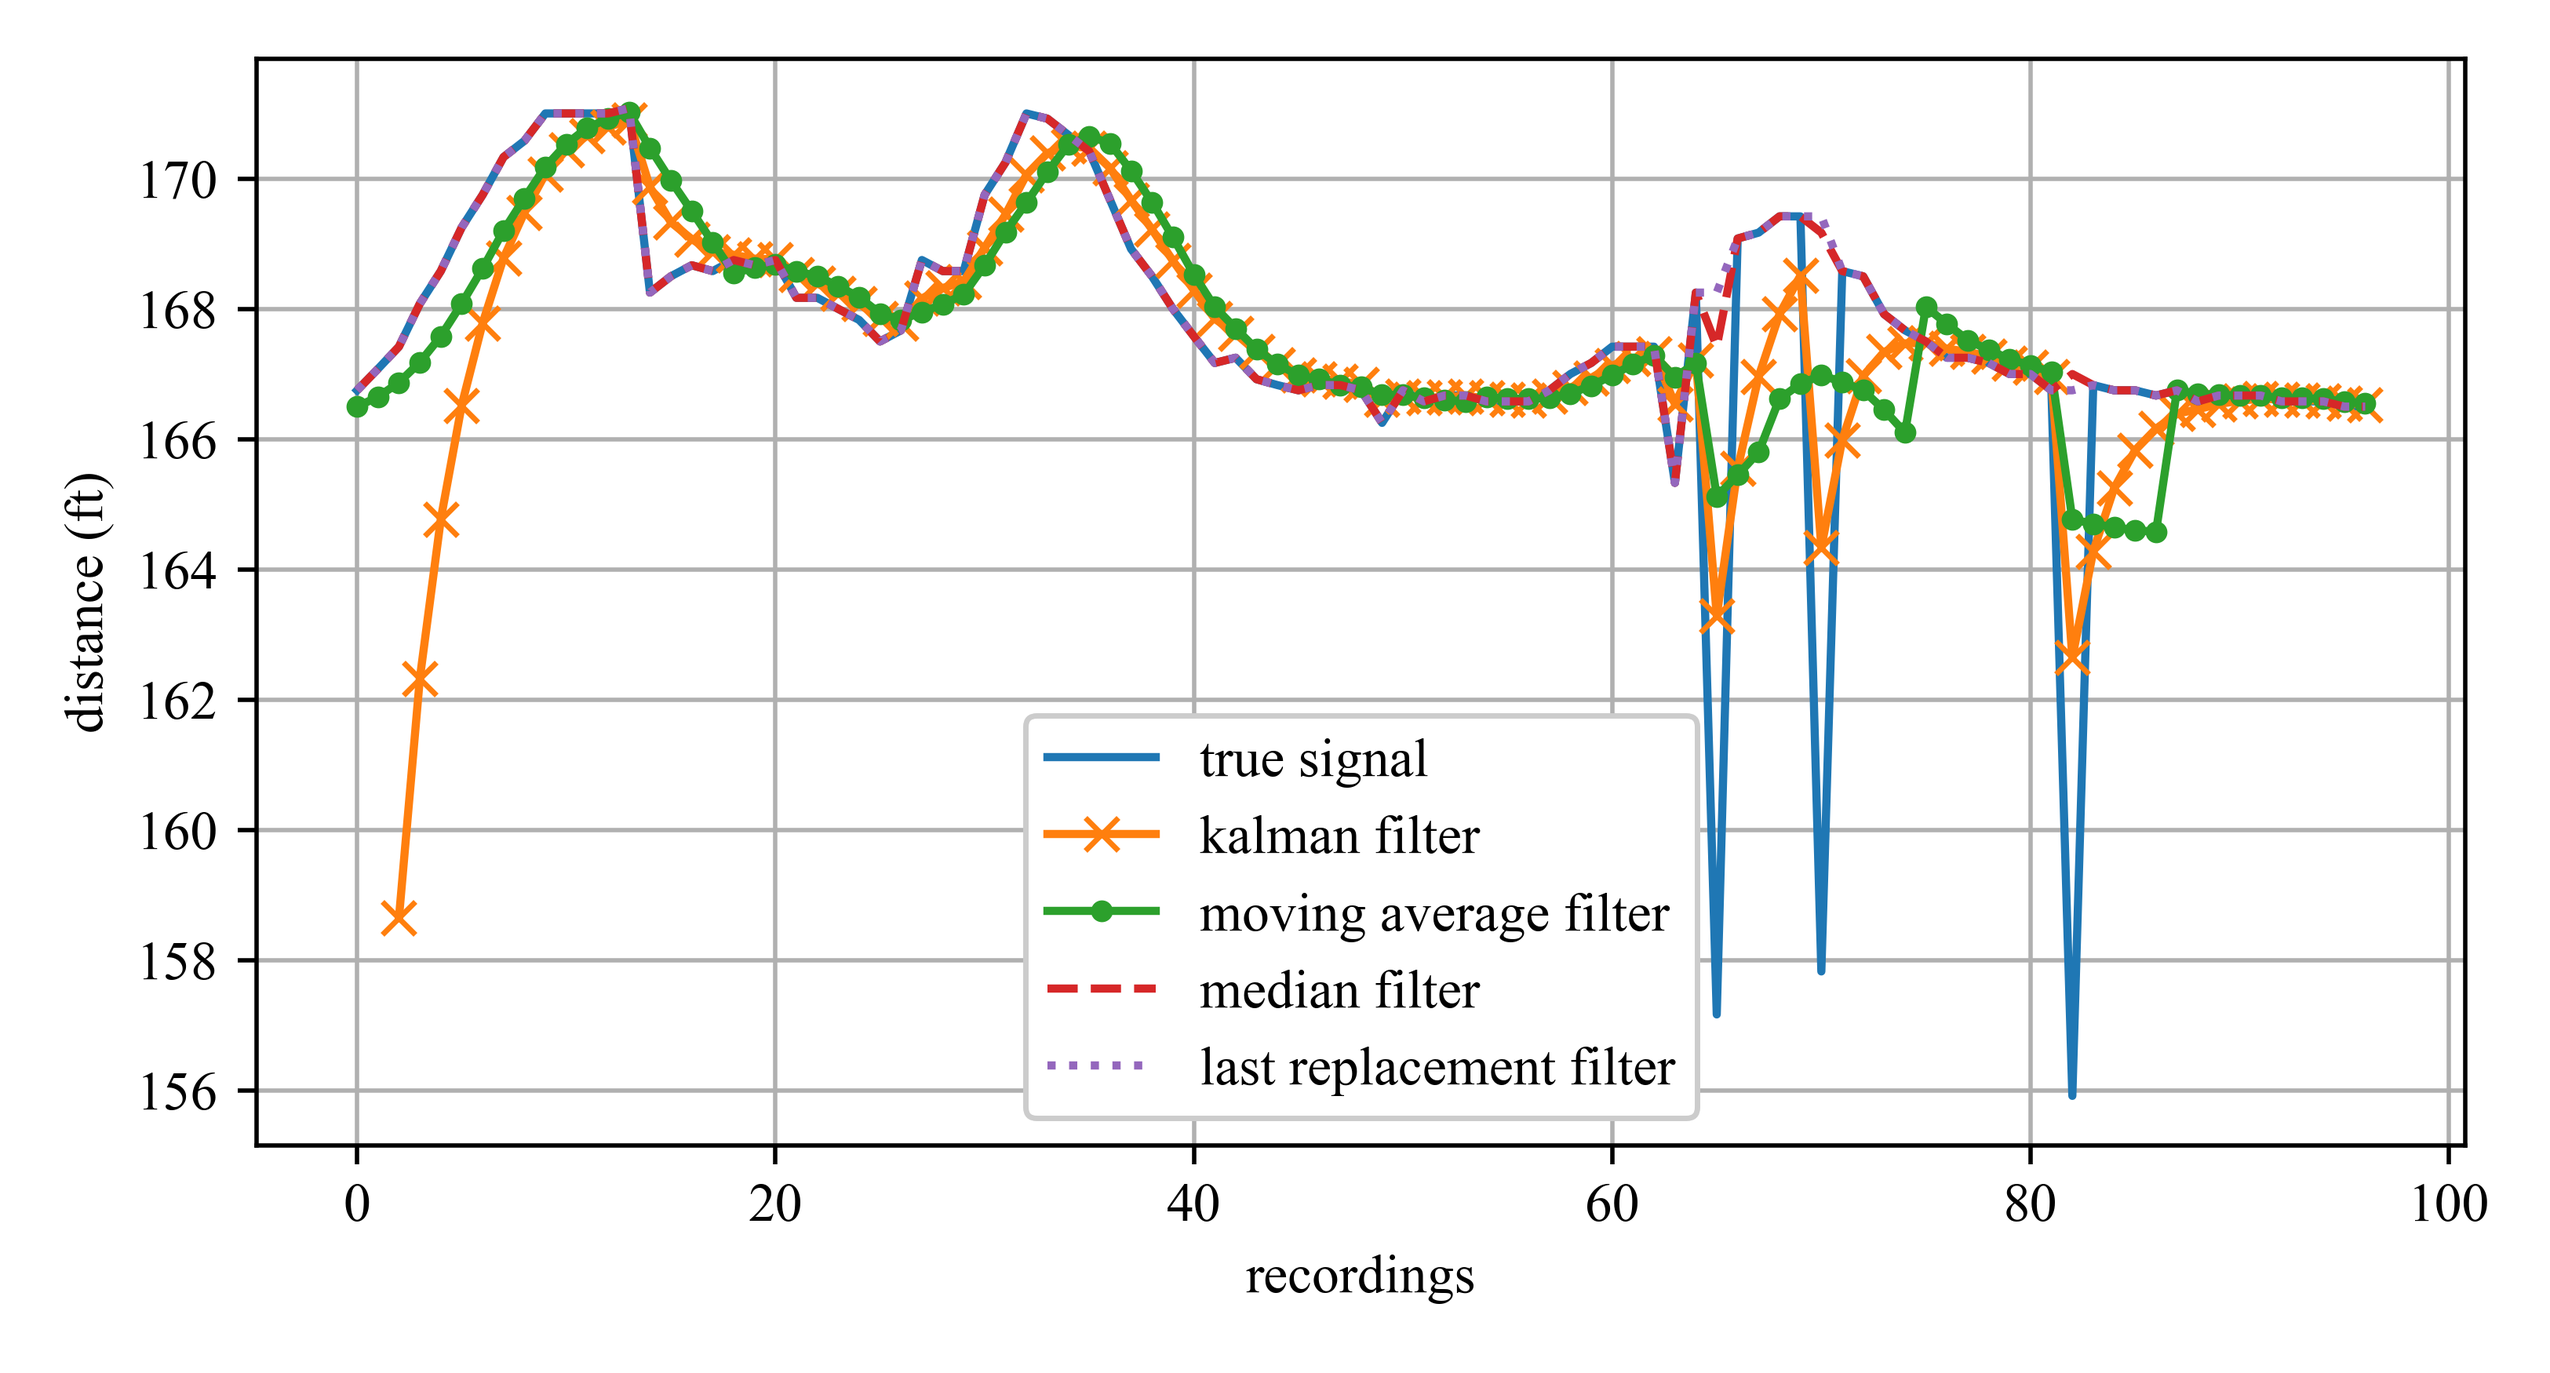
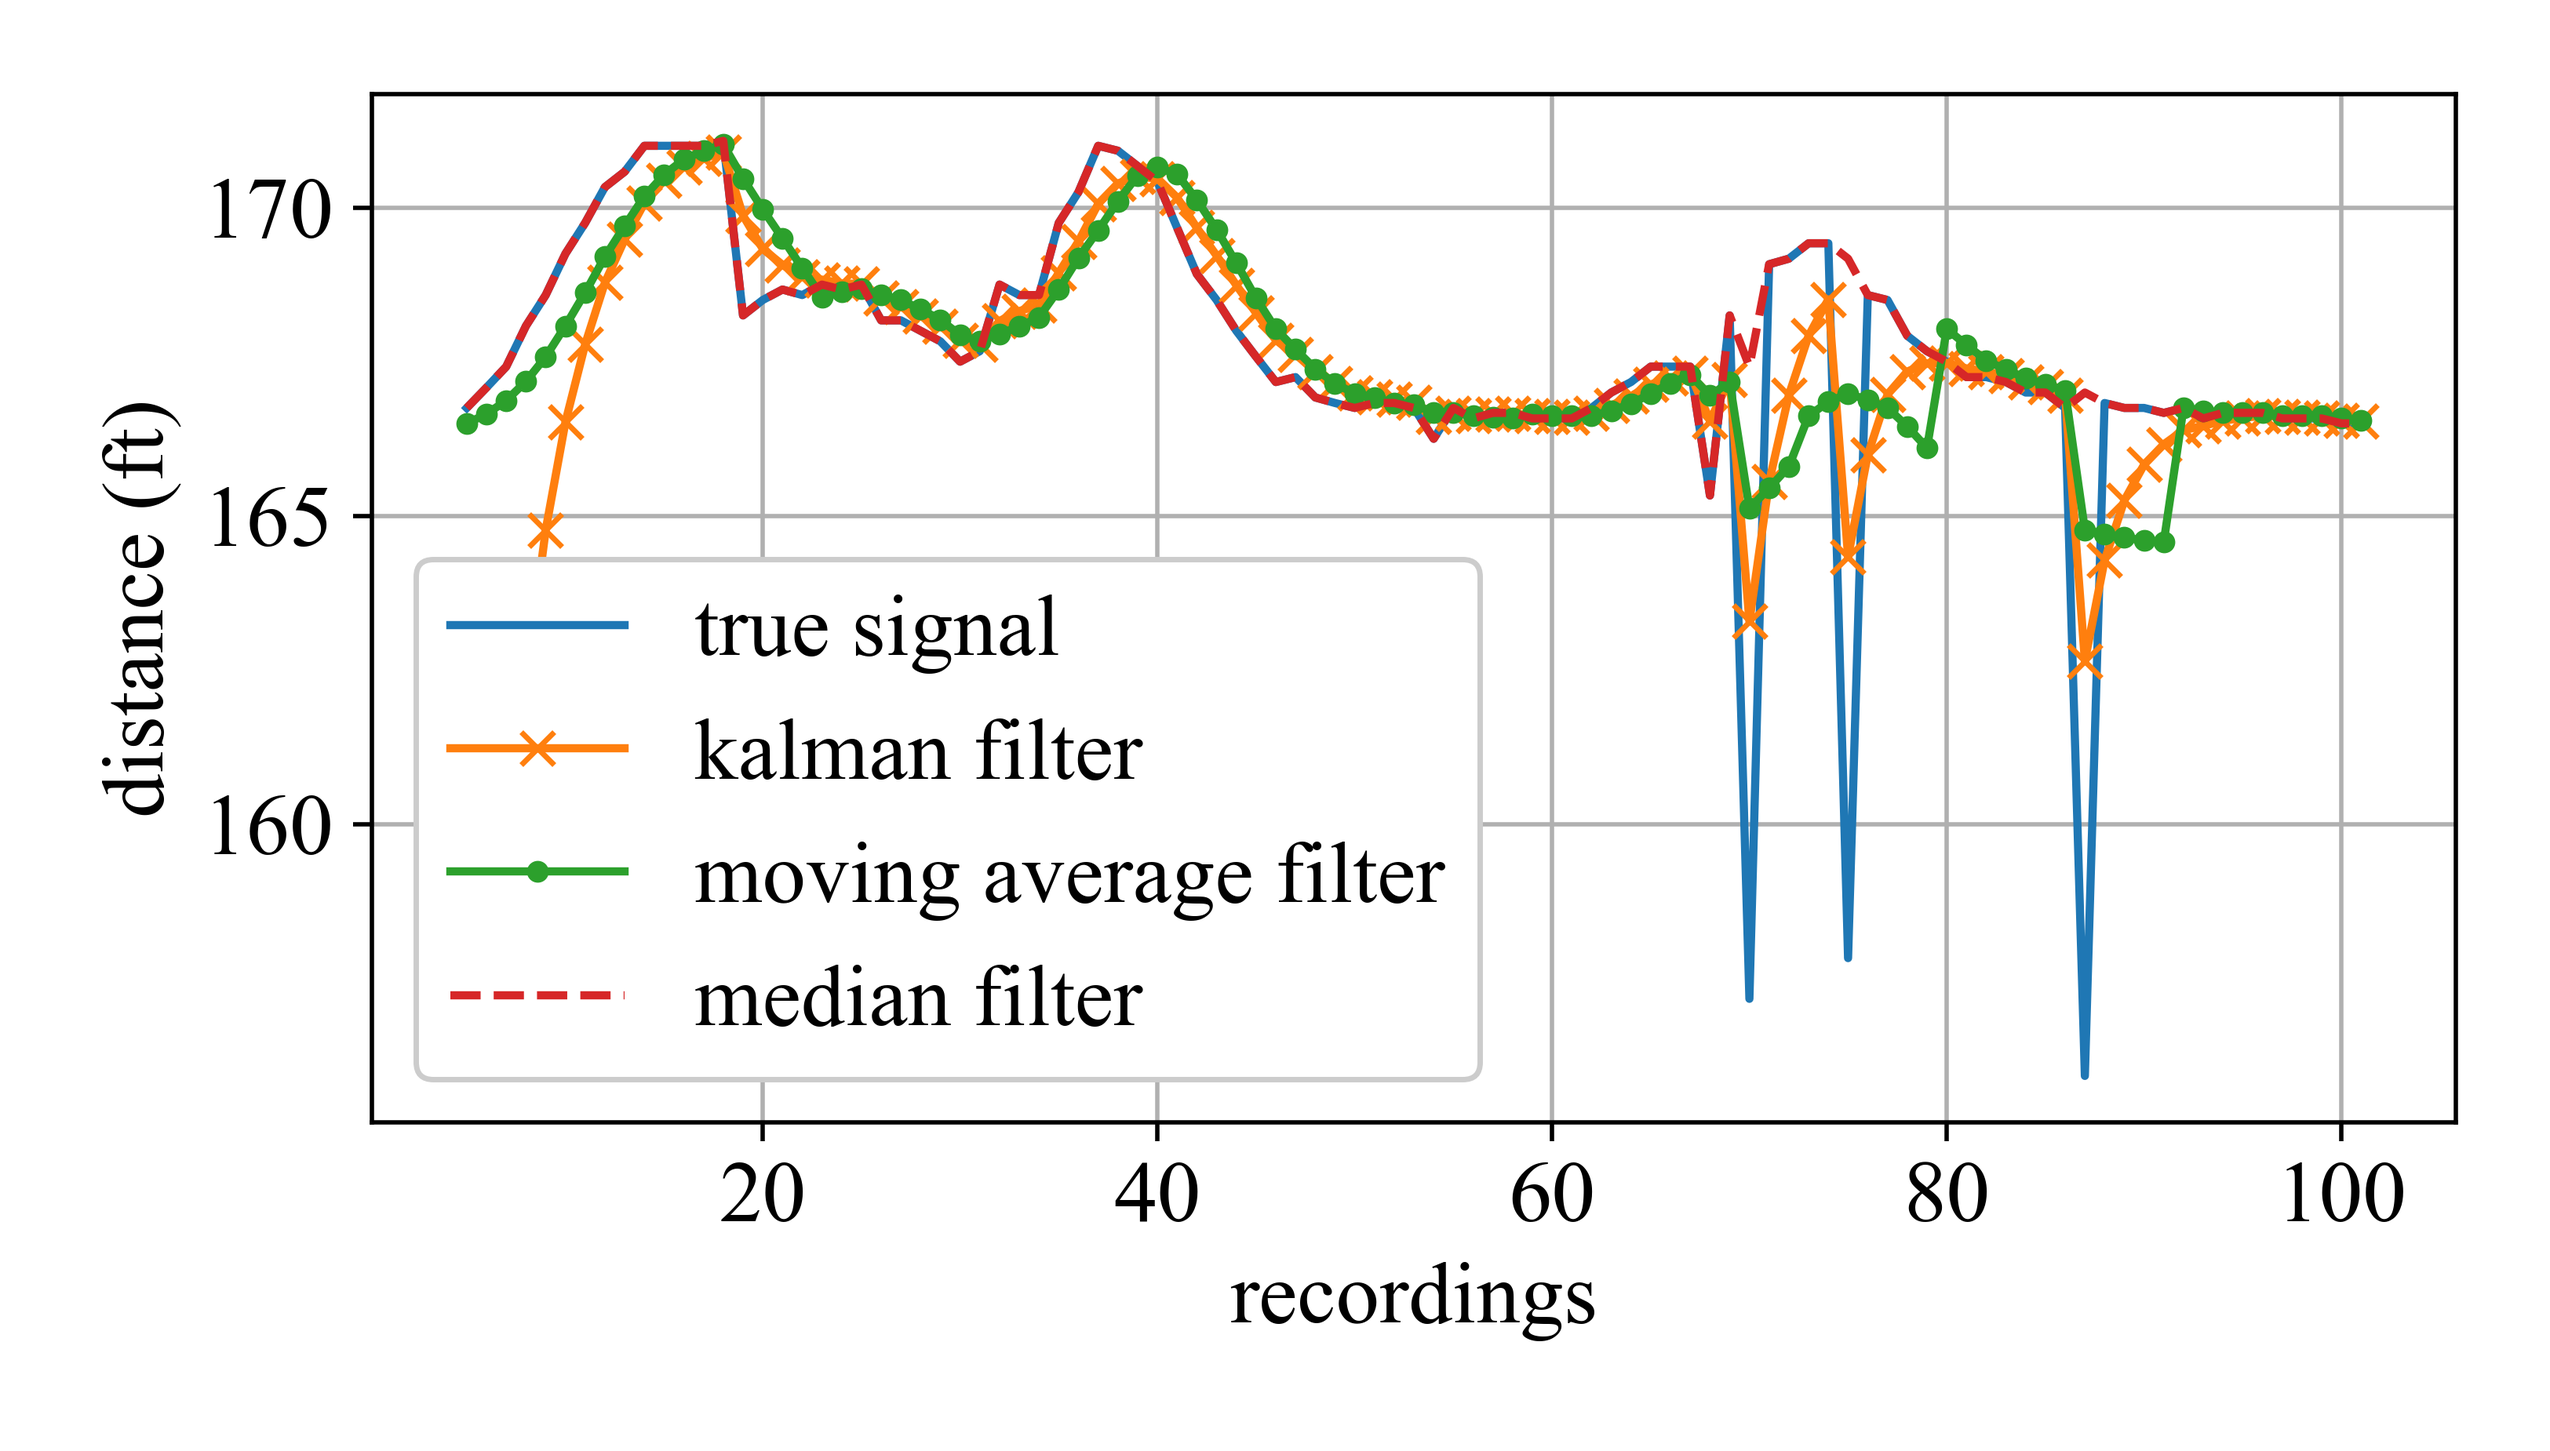
update figure dimensions

Changed region(s): [[0.0311, 0.0309, 0.9945, 0.9566], [0.1243, 0.8331, 0.1554, 0.8949]]

diff --git a/characteristic data/filtering/filter_plots.py b/characteristic data/filtering/filter_plots.py
@@ -13,7 +13,7 @@ import pandas as pd
 import pylab as pl
 import numpy as np
 plt.rcParams["font.family"] = "Times New Roman"
-#mpl.rcParams.update({'font.size': 14})
+mpl.rcParams.update({'font.size': 16})
 
 import IPython as IP
 IP.get_ipython().magic('reset -sf')
@@ -24,12 +24,12 @@ filter_df = pd.read_csv('filters.csv')
 x = np.array(range(5,102))
 
 #%% Comparing filters
-plt.figure(figsize=(6.5,3.5))
+plt.figure(figsize=(6.5,3.7))
 plt.plot(x, filter_df["true signal"], label="true signal")
 plt.plot(x, filter_df["kalman"], marker ="x", label="kalman filter")
 plt.plot(x, filter_df["moving average"], ".-",  label="moving average filter")
 plt.plot(x, filter_df["median"], "--", label="median filter")
-plt.plot(x, filter_df["last replacement"],":",  label = "last replacement filter")
+#plt.plot(x, filter_df["last replacement"],":",  label = "last replacement filter")
 plt.legend(framealpha=1)
 plt.xlabel('recordings')
 plt.ylabel('distance (ft)')
@@ -37,5 +37,5 @@ plt.ylabel('distance (ft)')
 #plt.xticks(rotation=45)
 plt.tight_layout()
 plt.grid(True)
-#plt.savefig('filters.png', dpi=500)
+plt.savefig('filters.png', dpi=500)
 
